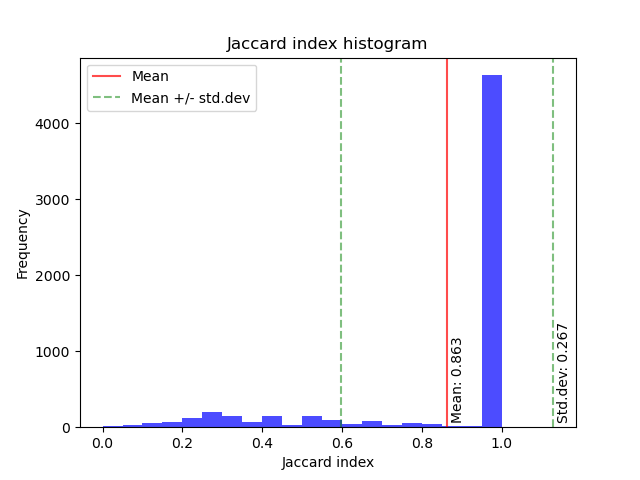
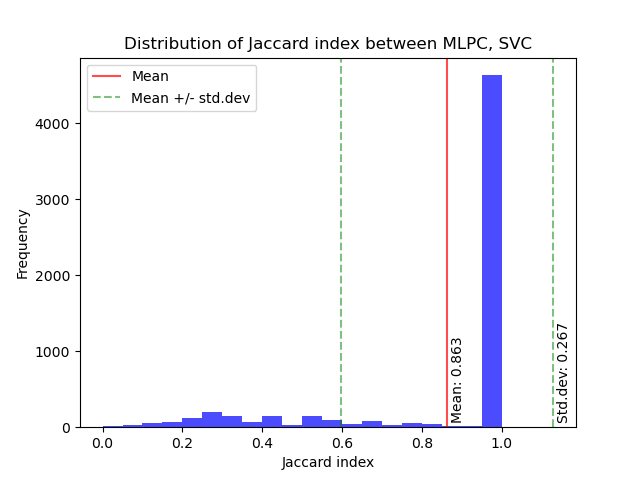
Result plots

Changed region(s): [[0.1875, 0.0625, 0.75, 0.125], [0.7812, 0.0625, 0.8438, 0.125]]

diff --git a/script/jaccard_measure.py b/script/jaccard_measure.py
@@ -4,6 +4,7 @@ import sys
 import time
 import warnings
 import pandas as pd
+import seaborn as sns
 import numpy as np
 import matplotlib.pyplot as plt
 from cfnow import find_tabular
@@ -184,12 +185,36 @@ plt.text(mean + std_dev + 0.01, 50,
          f'Std.dev: {round(std_dev, 3)}', rotation=90, verticalalignment='bottom')
 # Labels
 plt.legend(loc='best')
-plt.title('Jaccard index histogram')
+plt.title(f"Distribution of Jaccard index between "
+          f"{', '.join([c.class_method for c in clfs])}")
 plt.xlabel('Jaccard index')
 plt.ylabel('Frequency')
 # Save
 plt.savefig('jaccard_indexes_histogram.png')
 plt.close()
+
+# Computing most common features
+common_features = {}
+for c in clfs:
+    common_features[c.class_method] = \
+        {feat: sum(feat in row for row in result_df[c.class_method + '_features'])
+         for feat in data_columns}
+
+# Create dataframe
+data = []
+for model, feat in common_features.items():
+    for key, value in feat.items():
+        data.append([model, key, value])
+df = pd.DataFrame(data, columns=['Model', 'Feature', 'Frequency'])
+
+# Plot
+sns.barplot(x='Frequency', y='Feature', hue='Model', data=df)
+plt.title('Features importance')
+plt.xlabel('Frequency')
+plt.ylabel('Features')
+plt.tight_layout()
+# Save
+plt.savefig('features_importance.png')
 
 # End timing
 seconds(time.time(), START_TIME)
